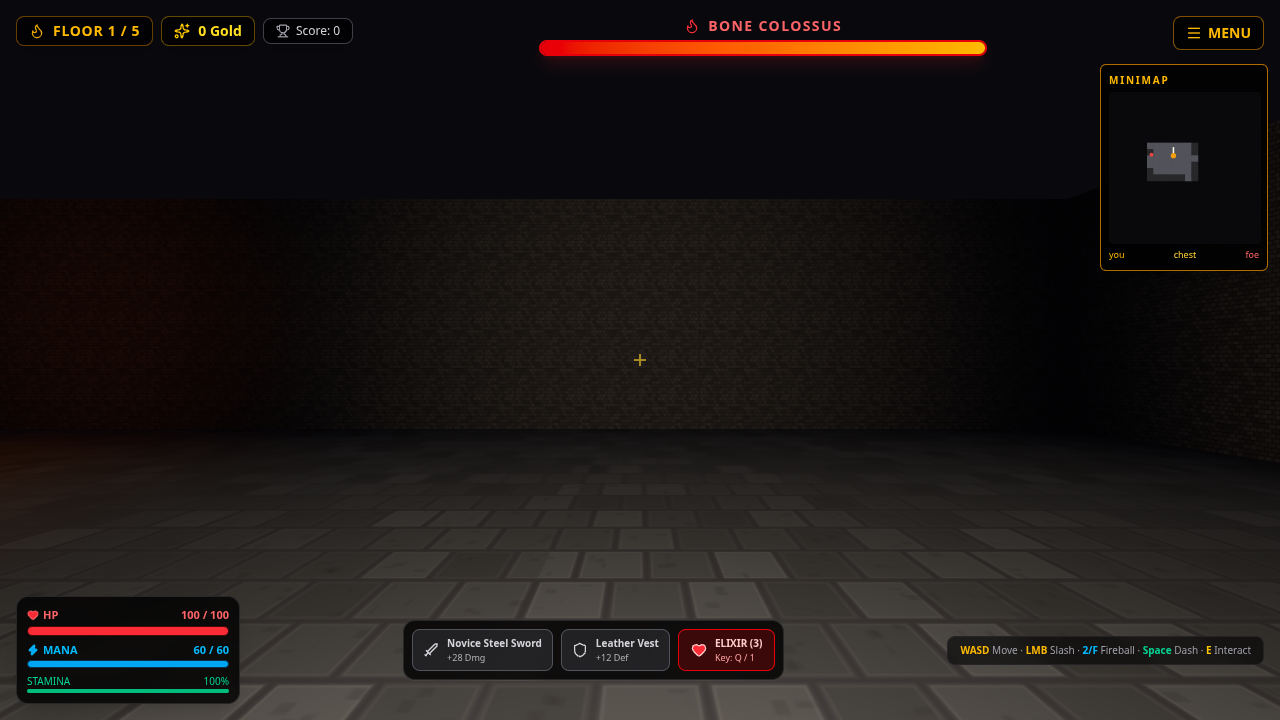
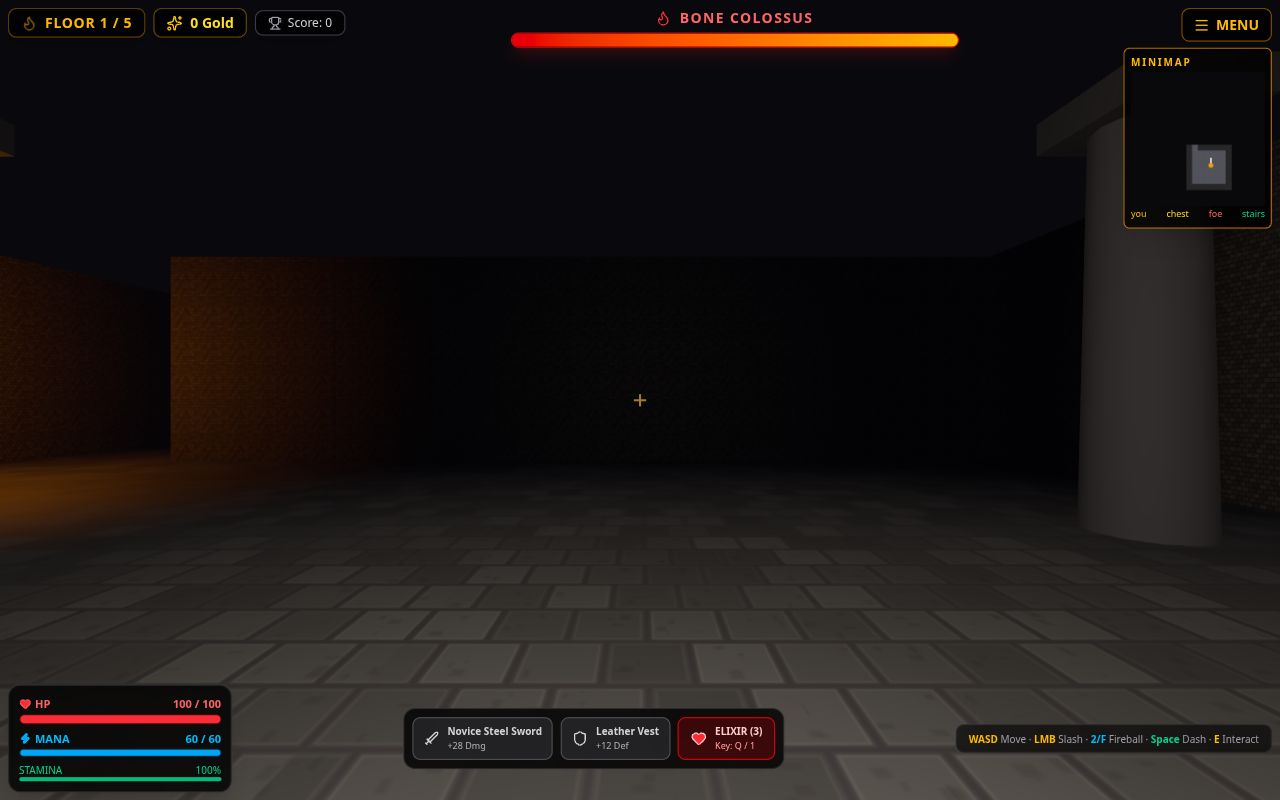
AD-15: park the minimap under the menu and mark visited stairs
The menu and hud-safe wrapper live in App, so the map is a flex slot
there instead of an absolute overlay on the canvas. Stairs draw once
their room is revealed.

diff --git a/src/App.tsx b/src/App.tsx
@@ -24,7 +24,9 @@ import {
 import React, {useCallback, useEffect, useRef, useState} from 'react';
 import {AVAILABLE_MUSIC_TRACKS, getConfig} from './constants';
 import {Game} from './Game';
+import {Minimap} from './components/Minimap';
 import {RotatePrompt} from './components/RotatePrompt';
+import {createMinimapBridge} from './minimap';
 import {
   DungeonFloorData,
   EnemyEntity,
@@ -152,6 +154,7 @@ export default function App() {
   const [bossHudState, setBossHudState] = useState<EnemyEntity | null>(null);
   const activeEnemiesCountRef = useRef(0);
   const floorDataRef = useRef<DungeonFloorData | null>(null);
+  const minimapBridgeRef = useRef(createMinimapBridge());
 
   // Back key support
   useEffect(() => {
@@ -406,6 +409,7 @@ export default function App() {
           currentBossRef={currentBossRef}
           activeEnemiesCountRef={activeEnemiesCountRef}
           floorDataRef={floorDataRef}
+          minimapBridgeRef={minimapBridgeRef}
         />
 
         {/* HUD: Active Gameplay Safe Zones */}
@@ -439,7 +443,7 @@ export default function App() {
 
               {/* Top Center: Floor Boss Health Bar */}
               {bossHudState && bossHudState.hp > 0 && (
-                <div className="flex-1 max-w-xs md:max-w-md mx-2 flex flex-col items-center animate-fade-in">
+                <div className="flex-1 min-w-0 max-w-xs md:max-w-md mx-2 flex flex-col items-center animate-fade-in">
                   <div className="flex items-center gap-2 mb-1">
                     <Flame className="w-4 h-4 text-red-500" />
                     <span className="text-xs md:text-sm font-black tracking-widest text-red-400 uppercase">
@@ -457,14 +461,17 @@ export default function App() {
                 </div>
               )}
 
-              {/* TOP RIGHT: Game Menu Trigger Button (Reserved Safe Zone) */}
-              <div className="pointer-events-auto">
-                <button
-                  onClick={() => setIsGameMenuOpen(true)}
-                  className="bg-black/80 hover:bg-zinc-800 active:scale-95 text-amber-400 border border-amber-500/50 px-3 py-1.5 rounded-lg font-bold text-xs md:text-sm flex items-center gap-1.5 shadow-xl transition-all">
-                  <MenuIcon className="w-4 h-4" />
-                  <span>MENU</span>
-                </button>
+              {/* TOP RIGHT: menu, then the minimap in its own slot under it */}
+              <div className="flex shrink-0 flex-col items-end gap-1.5">
+                <div className="pointer-events-auto">
+                  <button
+                    onClick={() => setIsGameMenuOpen(true)}
+                    className="bg-black/80 hover:bg-zinc-800 active:scale-95 text-amber-400 border border-amber-500/50 px-3 py-1.5 rounded-lg font-bold text-xs md:text-sm flex items-center gap-1.5 shadow-xl transition-all">
+                    <MenuIcon className="w-4 h-4" />
+                    <span>MENU</span>
+                  </button>
+                </div>
+                <Minimap bridge={minimapBridgeRef} active />
               </div>
             </div>
 

diff --git a/src/Game.tsx b/src/Game.tsx
@@ -5,11 +5,10 @@ import {Bloom, EffectComposer} from '@react-three/postprocessing';
 import type {MutableRefObject} from 'react';
 import React, {Suspense, useEffect, useMemo, useRef, useState} from 'react';
 import * as THREE from 'three';
-import {Minimap} from './components/Minimap';
 import {getConfig} from './constants';
 import {generateDungeonFloor} from './dungeonGenerator';
 import {InputSnapshot, useInput} from './input';
-import {createMinimapBridge, syncMinimapBridge, type MinimapBridge} from './minimap';
+import {syncMinimapBridge, type MinimapBridge} from './minimap';
 import {enemyKillScore, isGameOver} from './rules';
 import {
   ChestEntity,
@@ -45,6 +44,7 @@ interface GameProps {
   currentBossRef: MutableRefObject<EnemyEntity | null>;
   activeEnemiesCountRef: MutableRefObject<number>;
   floorDataRef: MutableRefObject<DungeonFloorData | null>;
+  minimapBridgeRef: MutableRefObject<MinimapBridge>;
 }
 
 // Scratch temporaries for zero-allocation game loop
@@ -161,10 +161,7 @@ function DungeonScene({
   activeEnemiesCountRef,
   floorDataRef,
   minimapBridgeRef,
-}: GameProps & {
-  inputRef: MutableRefObject<InputSnapshot>;
-  minimapBridgeRef: MutableRefObject<MinimapBridge>;
-}): React.ReactElement {
+}: GameProps & {inputRef: MutableRefObject<InputSnapshot>}): React.ReactElement {
   const {camera, gl} = useThree();
 
   // Textures
@@ -260,6 +257,7 @@ function DungeonScene({
       playerYaw: 0,
       enemies: generated.enemies,
       chests: generated.floorData.chests,
+      stairs: generated.floorData.stairs,
     });
 
     gameAudio.playFootstepStone();
@@ -989,6 +987,7 @@ function DungeonScene({
       playerYaw: playerYaw.current,
       enemies: enemiesRef.current,
       chests: chestsRef.current,
+      stairs: floorData.stairs,
     });
   });
 
@@ -1493,7 +1492,6 @@ function DungeonScene({
 export function Game(props: GameProps) {
   const containerRef = useRef<HTMLDivElement>(null);
   const inputRef = useInput(containerRef, {enabled: true});
-  const minimapBridgeRef = useRef(createMinimapBridge());
 
   return (
     <div ref={containerRef} className="w-full h-full canvas-wrapper relative">
@@ -1527,7 +1525,7 @@ export function Game(props: GameProps) {
             intensity={getConfig('hemiIntensity')}
           />
 
-          <DungeonScene {...props} inputRef={inputRef} minimapBridgeRef={minimapBridgeRef} />
+          <DungeonScene {...props} inputRef={inputRef} />
 
           <EffectComposer>
             <Bloom
@@ -1539,7 +1537,6 @@ export function Game(props: GameProps) {
           </EffectComposer>
         </Suspense>
       </Canvas>
-      <Minimap bridge={minimapBridgeRef} active={props.gameState.status === 'PLAYING'} />
     </div>
   );
 }

diff --git a/src/minimap.ts b/src/minimap.ts
@@ -21,6 +21,10 @@ export interface MinimapChest {
   opened: boolean;
 }
 
+export interface MinimapStairs {
+  pos: Position3D;
+}
+
 /**
  * Mutable bag the game loop writes and the overlay reads.
  * Fields are replaced in place so publishing never triggers a React render.
@@ -34,6 +38,7 @@ export interface MinimapBridge {
   playerYaw: number;
   enemies: readonly MinimapEnemy[];
   chests: readonly MinimapChest[];
+  stairs: MinimapStairs | null;
   /** Increments when the floor layout is replaced so fog-of-war resets. */
   floorSerial: number;
 }
@@ -48,6 +53,7 @@ export function createMinimapBridge(): MinimapBridge {
     playerYaw: 0,
     enemies: [],
     chests: [],
+    stairs: null,
     floorSerial: 0,
   };
 }
@@ -61,6 +67,7 @@ export interface MinimapSample {
   playerYaw: number;
   enemies: readonly MinimapEnemy[];
   chests: readonly MinimapChest[];
+  stairs: MinimapStairs | null;
 }
 
 /** Copy the latest sample into the bridge. A new tile grid bumps `floorSerial`. */
@@ -76,6 +83,7 @@ export function syncMinimapBridge(bridge: MinimapBridge, sample: MinimapSample):
   bridge.playerYaw = sample.playerYaw;
   bridge.enemies = sample.enemies;
   bridge.chests = sample.chests;
+  bridge.stairs = sample.stairs;
 }
 
 export function createVisitedMask(gridSize: number): Uint8Array {
@@ -190,7 +198,7 @@ export function revealVisited(
   return changed;
 }
 
-export type MinimapMarkerKind = 'chest' | 'enemy' | 'boss';
+export type MinimapMarkerKind = 'chest' | 'enemy' | 'boss' | 'stairs';
 
 export interface MinimapMarker {
   kind: MinimapMarkerKind;
@@ -199,12 +207,17 @@ export interface MinimapMarker {
   opened?: boolean;
 }
 
-/** Chests and living enemies whose tile has been visited. Dead enemies are omitted. */
+/**
+ * Chests, living enemies, and stairs whose tile has been visited.
+ * Stairs show once their room is revealed, because revealing a room marks every floor tile in it.
+ * Dead enemies are omitted.
+ */
 export function visibleMarkers(
   mask: Uint8Array,
   gridSize: number,
   chests: readonly MinimapChest[],
   enemies: readonly MinimapEnemy[],
+  stairs: MinimapStairs | null = null,
   tileSize = MINIMAP_TILE_SIZE,
 ): MinimapMarker[] {
   const markers: MinimapMarker[] = [];
@@ -223,6 +236,14 @@ export function visibleMarkers(
       x: pos.x,
       y: pos.y,
     });
+  }
+  if (stairs) {
+    const pos = worldToTileFloat(stairs.pos[0], stairs.pos[2], gridSize, tileSize);
+    const tx = Math.floor(pos.x);
+    const ty = Math.floor(pos.y);
+    if (isVisited(mask, gridSize, tx, ty)) {
+      markers.push({kind: 'stairs', x: pos.x, y: pos.y});
+    }
   }
   return markers;
 }

diff --git a/src/components/Minimap.tsx b/src/components/Minimap.tsx
@@ -48,7 +48,7 @@ function paint(
     }
   }
 
-  const markers = visibleMarkers(mask, gridSize, bridge.chests, bridge.enemies);
+  const markers = visibleMarkers(mask, gridSize, bridge.chests, bridge.enemies, bridge.stairs);
   for (const marker of markers) {
     const cx = marker.x * cell;
     const cy = marker.y * cell;
@@ -56,6 +56,18 @@ function paint(
       const size = Math.max(3, cell * 0.62);
       ctx.fillStyle = marker.opened ? '#78716c' : '#fbbf24';
       ctx.fillRect(cx - size / 2, cy - size / 2, size, size);
+      continue;
+    }
+    if (marker.kind === 'stairs') {
+      const size = Math.max(2.5, cell * 0.42);
+      ctx.fillStyle = '#34d399';
+      ctx.beginPath();
+      ctx.moveTo(cx, cy - size);
+      ctx.lineTo(cx + size, cy);
+      ctx.lineTo(cx, cy + size);
+      ctx.lineTo(cx - size, cy);
+      ctx.closePath();
+      ctx.fill();
       continue;
     }
     ctx.fillStyle = marker.kind === 'boss' ? '#fb7185' : '#ef4444';
@@ -116,20 +128,21 @@ function MinimapCanvas({bridge}: {bridge: MutableRefObject<MinimapBridge>}) {
       data-testid="minimap"
       role="img"
       aria-label="Dungeon minimap"
-      className="pointer-events-none absolute top-16 right-3 z-30 w-[168px] rounded-md border border-amber-500/70 bg-black/80 p-2 shadow-xl">
-      <div className="mb-1 flex items-center justify-between text-[10px] font-bold tracking-[0.18em] text-amber-400">
-        <span>MINIMAP</span>
+      className="pointer-events-none w-[9.25rem] shrink-0 rounded-md border border-amber-500/70 bg-black/80 p-1.5 shadow-xl [@media(max-height:420px)]:w-[6.75rem]">
+      <div className="mb-0.5 text-[10px] font-bold tracking-[0.18em] text-amber-400">
+        MINIMAP
       </div>
       <canvas
         ref={canvasRef}
         width={CSS_SIZE}
         height={CSS_SIZE}
-        className="block h-[152px] w-[152px] rounded-sm"
+        className="block aspect-square h-auto w-full rounded-sm"
       />
-      <div className="mt-1 flex items-center justify-between text-[9px] text-zinc-400">
+      <div className="mt-0.5 flex flex-wrap justify-between gap-x-1 text-[9px] text-zinc-400">
         <span className="text-amber-400">you</span>
         <span className="text-amber-300">chest</span>
         <span className="text-red-400">foe</span>
+        <span className="text-emerald-400">stairs</span>
       </div>
     </div>
   );

diff --git a/src/minimap.test.ts b/src/minimap.test.ts
@@ -113,6 +113,25 @@ describe('visibleMarkers', () => {
   const enemy: MinimapEnemy = {pos: [4, 0, -16], hp: 10, isBoss: false};
   const dead: MinimapEnemy = {pos: [4, 0, -16], hp: 0, isBoss: true};
 
+  it('shows stairs only after their room is revealed', () => {
+    const tiles = twoRoomGrid();
+    const mask = createVisitedMask(tiles.length);
+    const rooms = [spawn, combat];
+    // Combat-room center (12, 3) on a 16-wide grid.
+    const stairs = {pos: [16, 0, -20] as [number, number, number]};
+    expect(worldToTile(stairs.pos[0], stairs.pos[2], tiles.length)).toEqual({x: 12, y: 3});
+
+    expect(visibleMarkers(mask, tiles.length, [], [], stairs)).toEqual([]);
+
+    revealVisited(mask, tiles, rooms, spawn.x + 1, spawn.y + 1);
+    expect(visibleMarkers(mask, tiles.length, [], [], stairs)).toEqual([]);
+
+    revealVisited(mask, tiles, rooms, combat.x + 1, combat.y + 1);
+    expect(visibleMarkers(mask, tiles.length, [], [], stairs)).toEqual([
+      {kind: 'stairs', x: 12, y: 3},
+    ]);
+  });
+
   it('shows chests and living enemies only on visited tiles', () => {
     const gridSize = 16;
     // world (4, -16) → tile (floor(4/4 + 8), floor(-16/4 + 8)) = (9, 4)
